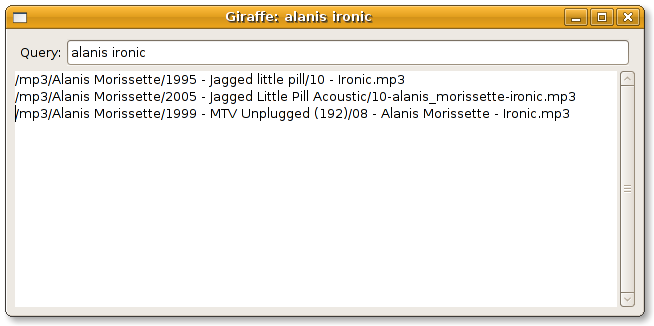
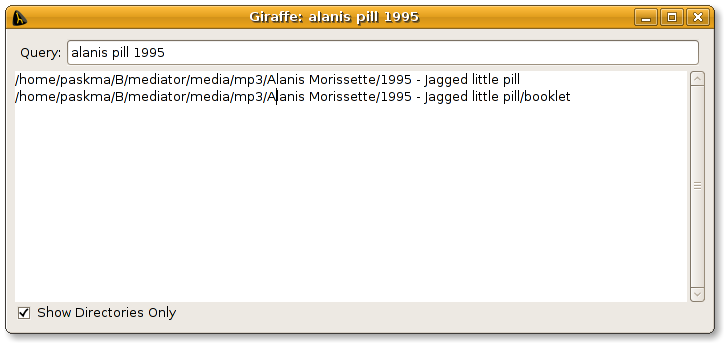
dirs

Changed region(s): [[0.0, 0.0, 1.0, 0.9816]]

diff --git a/mainform.py b/mainform.py
@@ -11,8 +11,8 @@ class Data:
 		print "Loading index"
 		self.index, self.docs = makeindex.readindex("index.pickle")
 	
-	def get_result(self, a_query):
-		return query.get_docs(a_query, self.index, self.docs)
+	def get_result(self, a_query, dirs_only):
+		return query.get_docs(a_query, self.index, self.docs, dirs_only)
 		
 
 class Mainform:
@@ -23,7 +23,7 @@ class Mainform:
     	self.window.set_title("Giraffe: " + self.query.get_text())
     	
     	self.result.get_buffer().set_text("")
-    	docs = self.data.get_result(self.query.get_text())
+    	docs = self.data.get_result(self.query.get_text(), self.dirs_only.get_active())
     	for i in docs:
     		self.result.get_buffer().insert_at_cursor(i+"\r\n")
     
@@ -76,11 +76,15 @@ class Mainform:
         self.sw_result = gtk.ScrolledWindow()
         self.sw_result.set_policy(gtk.POLICY_AUTOMATIC, gtk.POLICY_ALWAYS)
         self.result = gtk.TextView()
+        
+        self.dirs_only = gtk.CheckButton("Show Directories Only")
+        self.dirs_only.set_active(True)
     
         # When the button receives the "clicked" signal, it will call the
         # function ...() passing it None as its argument.
         self.button.connect("clicked", self.search, None)
         self.query.connect("changed", self.query_changed, None)
+        self.dirs_only.connect("clicked", self.search, None)
     
         # This will cause the window to be destroyed by calling
         # gtk_widget_destroy(window) when "clicked".  Again, the destroy
@@ -93,7 +97,8 @@ class Mainform:
         #self.topbox.pack_start(self.button, expand=False)
         self.mainbox.pack_start(self.topbox, expand=False)
         self.sw_result.add(self.result)
-        self.mainbox.add(self.sw_result)
+        self.mainbox.pack_start(self.sw_result)
+        self.mainbox.pack_start(self.dirs_only, expand=False)
         self.window.add(self.mainbox)
     
         self.window.show_all()

diff --git a/inverter.py b/inverter.py
@@ -1,6 +1,6 @@
 import re
 
-splitter = re.compile(r"[/ \&\+,\-_\.=]")
+splitter = re.compile(r"[/ \&\+,\-_\.=\[\]\(\)]") #() []
 
 def normalize(doc):
 	words = splitter.split(doc)
@@ -17,12 +17,9 @@ def add(i, doc, dict):
 	for w in words:
 		try:
 			ids = dict[w]
-			
-			if not i in ids:
-				ids.append(i)
-			
+			ids.add(i)
 		except KeyError:
-			dict[w] = [i]
+			dict[w] = set([i])
 
 def invert(docs):
 	"inverts list of docs into index dictionary"
@@ -30,11 +27,16 @@ def invert(docs):
 	for i in range(len(docs)):
 		add(i, docs[i], index)
 	
-	#for k in index.keys():
-	#	index[k].sort()
+	for k in index.keys():
+		foo = list(index[k])
+		foo.sort()
+		index[k] = foo
 	
 	return index
 
-if __name__ == "__main__":
-	print splitter.split("ahoj/vole/blekota jekota&aa+bb,ccc-ddd__eee.fff=ggg")
+def test_splitter():
+	print splitter.split("ahoj/vole/blekota jekota&aa+bb,ccc-ddd__eee.fff=ggg[hhh](iii)jjj")
 	print splitter.split("../tmp/rmitest/Bar.Java")
+
+if __name__ == "__main__":
+	test_splitter()

diff --git a/query.py b/query.py
@@ -1,5 +1,5 @@
 #!/usr/bin/env python
-import makeindex, inverter
+import makeindex, inverter, lister
 
 def intersection(one, two):
 	return list(set(one).intersection(set(two)))
@@ -9,7 +9,7 @@ def test_intersection():
 	b = [3,4,6,7,8]
 	print a, b, intersection(a,b)
 
-def get_docs(query, index, docs):
+def get_docs(query, index, docs, dirs_only=False):
 	#print "i,d", index, docs
 	words = inverter.normalize(query)
 	ids = []
@@ -27,8 +27,16 @@ def get_docs(query, index, docs):
 		
 	
 	result = []
+	added_dirs = {}
 	for i in ids:
-		result.append(docs[i])
+		doc = docs[i]
+		if dirs_only:
+			trimmed = doc[0:doc.rfind(lister.path_separator)]
+			if trimmed not in added_dirs:
+				added_dirs[trimmed] = 1
+				result.append(trimmed)
+		else:
+			result.append(doc)
 	
 	return result
 

diff --git a/lister.py b/lister.py
@@ -1,17 +1,21 @@
 import os, stat, types
 
+path_separator = os.path.normcase('/');
+
 def walktree(topdir):
 	try:
 		names = os.listdir(topdir)
 		for name in names:
 			full = os.path.join(topdir, name)
-			yield full
 			
 			st = os.lstat(full)
 			if stat.S_ISDIR(st.st_mode):
+				yield full + path_separator #mark dirs by final slash
 				print "Diving into", full
 				for i in walktree(full):
 					yield i
+			else:
+				yield full
 	except OSError, er:
 		print "warn", er
 
@@ -20,4 +24,8 @@ def fulltree(topdir):
 	
 
 if __name__ == "__main__":
-	print fulltree("../tmp")
+	#print fulltree("../tmp")
+	#x = "../tmp";
+	x = "/"
+	for i in walktree(x):
+		print i

diff --git a/makeindex.py b/makeindex.py
@@ -6,7 +6,7 @@ def makeindex(topdirs, filename):
 	docs = []
 	for i in topdirs:
 		docs += lister.fulltree(i)
-	print "Inverting..."
+	print "Inverting "+str(len(docs))+" docs..."
 	index = inverter.invert(docs)
 	output = open(filename, "wb")
 	pickle.dump(index, output)
